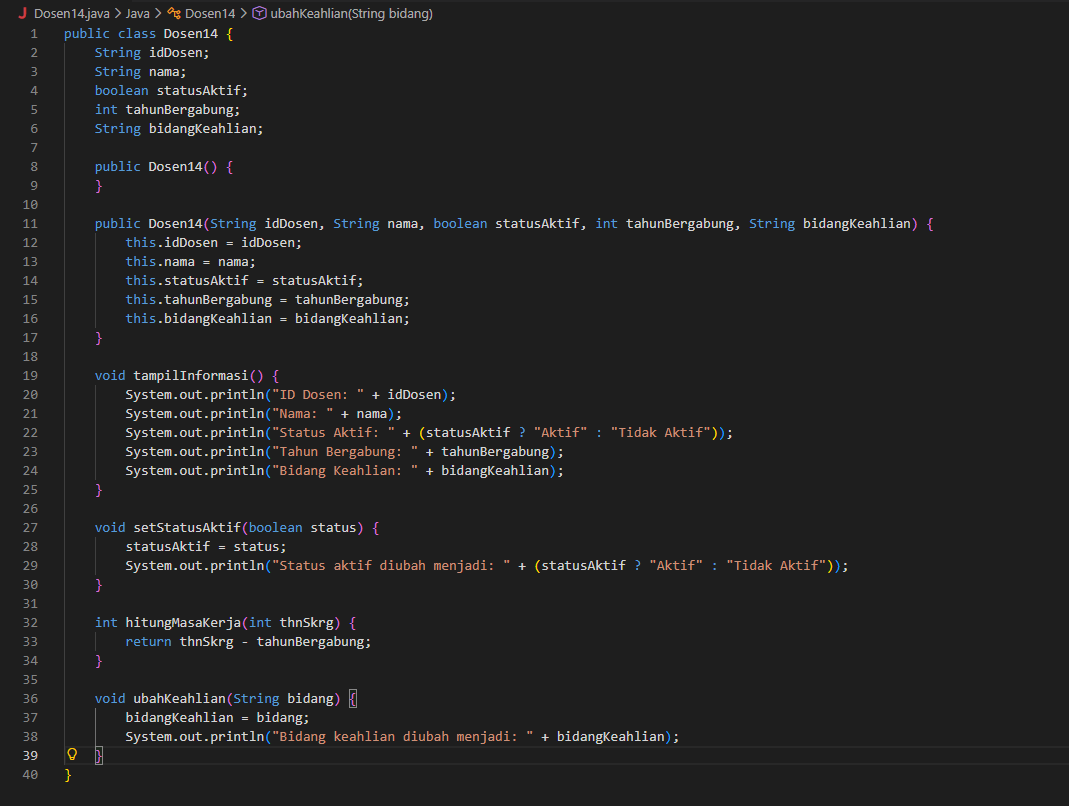
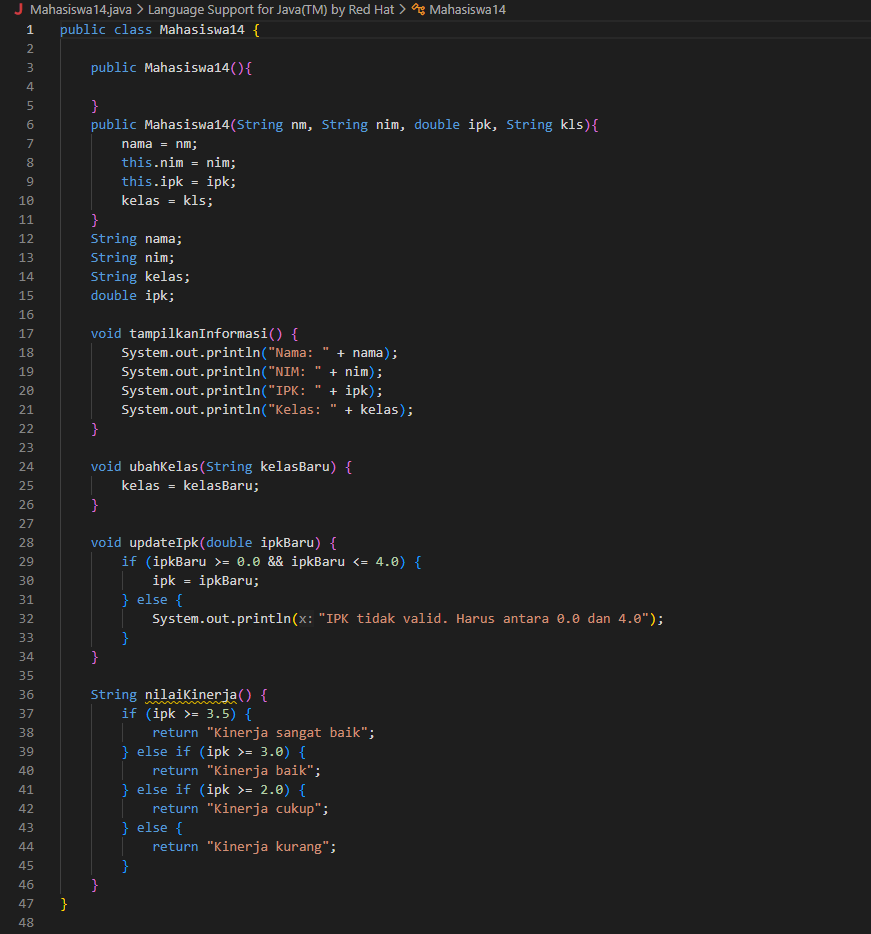
2.3

diff --git a/minggu2/MahasiswaMain14.java b/minggu2/MahasiswaMain14.java
@@ -14,6 +14,9 @@ public class MahasiswaMain14 {
         Mahasiswa14 mhs2 = new Mahasiswa14("Annisa Nabila", "2141720160", 3.25, "TI 2L");
         mhs2.updateIpk(3.30);
         mhs2.tampilkanInformasi();
+
+        Mahasiswa14 mhs3 = new Mahasiswa14("Ferdi Afiyanto", "254107020122", 4.0, "TI 1E");
+        mhs3.tampilkanInformasi();
         System.out.println("-------------------------");
     }
 }

diff --git a/minggu2/laporanJobsheet2.md b/minggu2/laporanJobsheet2.md
@@ -8,7 +8,6 @@
 
 ![![alt text](image.png) 1](images/c6477828d02f30fbd6814d7aa93a0a2e610d918b9909ccafea8e611ac469992a.png)  
 
-
 1. Dua karakteristik class atau object: Class merupakan blueprint atau cetakan, sedangkan Object adalah instance (wujud nyata) dari class tersebut di dalam memori yang memiliki state (atribut) dan behavior (method).
 
 2. Atribut class Mahasiswa: Ada 4 atribut , yaitu nama, nim, kelas, dan ipk
@@ -26,6 +25,14 @@
 ![picture 10](images/6b5912dbad6a2d747c390e0c6ad079ead17443996a622ada0deecb60ebe0460a.png)  
 
 ## 2.3 Membuat Konstruktor
+- Gambar ada di 2.1
+
+1. Line 6 - 15 pada MahasiswaMain14.java
+2. Baris ini melakukan instansiasi objek bernama mhs2 sekaligus memberikan nilai awal pada atribut-atributnya secara langsung memanfaatkan parameter yang dikirim ke konstruktor
+3. terjadi Error karena pada MahasiswaMain14, objek mhs1 di-instansiasi dengan pemanggilan konstruktor kosong (new Mahasiswa14()). Java hanya menyediakan konstruktor default otomatis jika tidak ada konstruktor lain yang dibuat. Karena kita sudah membuat konstruktor berparameter, kita wajib menuliskan konstruktor default secara eksplisit
+4. Tidak, method tidak harus diakses secara berurutan. Pemanggilan method disesuaikan dengan kebutuhan alur logika program yang sedang kita buat
+5. ![picture 11](images/6de931306cdbc900a741b71df18abe22066e47402ec270f358c2786f3831791d.png)  
+
 
 ## Tugas 1 
 - Berikut hasil array plat nomor:
